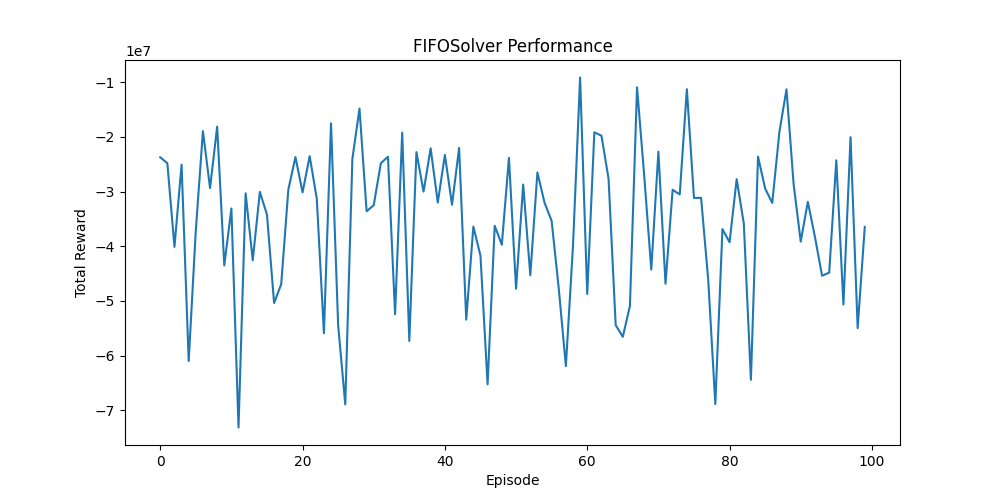
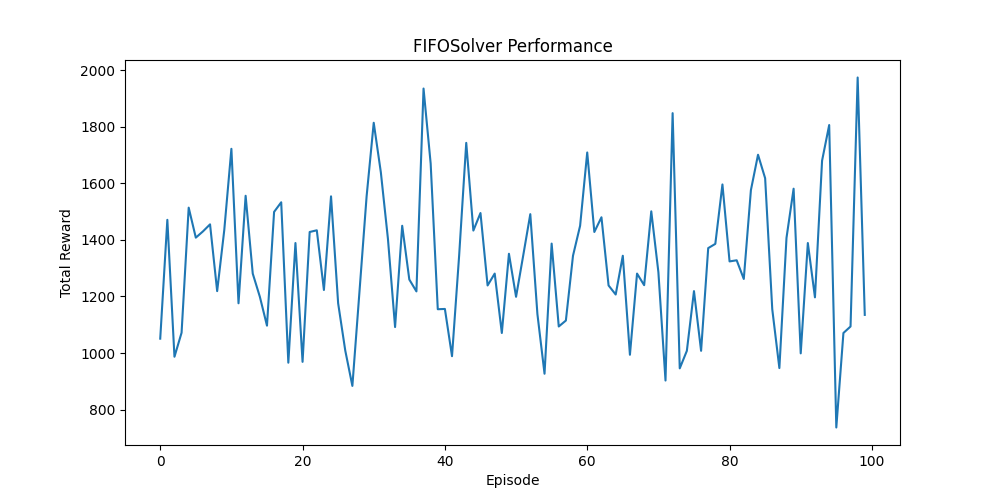
debug

diff --git a/Elevators/envs/simple_elevators.py b/Elevators/envs/simple_elevators.py
@@ -128,7 +128,7 @@ class ElevatorEnv(gym.Env):
         max_passengers_at_a_time: int = 10,
         avg_passengers_at_a_time: float = 5.0,
         total_passengers: int = 10,
-        seed: int | None = None,
+        seed: int | None = 0,
     ) -> None:
         super().__init__()
 
@@ -147,6 +147,7 @@ class ElevatorEnv(gym.Env):
         self.total_passengers: int = total_passengers
         # ---------------- PRNG ------------------------------
         self.rng = np.random.default_rng(seed)
+        self.random_direction_rng = np.random.default_rng(seed)
 
         # ---------------- Gym spaces ------------------------------
         # Observation: (floor, car, channel) – see module docstring
@@ -165,6 +166,7 @@ class ElevatorEnv(gym.Env):
 
     def reset(self, *, seed: int | None = None, options: Optional[dict] = None):
         super().reset(seed=seed)
+        # options[""]
         self._reset_state()
         return self._obs(), self._info()
 
@@ -283,10 +285,22 @@ class ElevatorEnv(gym.Env):
                 is_changed = True
 
         # ---------------- board -------------------------------------------------
-        # Choose the direction the idle car *will* take – random tie‑break.
-        if previous_direction == 0:
-            previous_direction = int(self.rng.choice([-1, 1]))
 
+        if previous_direction == 0:
+            up_waiting = any(
+                p.origin == floor and p.destination > floor
+                for p in self.waiting
+            )
+            down_waiting = any(
+                p.origin == floor and p.destination < floor
+                for p in self.waiting
+            )
+            if up_waiting and down_waiting:
+                previous_direction = self.random_direction_rng.choice([-1, 1])
+            elif up_waiting:
+                previous_direction = 1
+            elif down_waiting:
+                previous_direction = -1
         waiting_same_dir = [
             p
             for p in self.waiting
@@ -306,6 +320,11 @@ class ElevatorEnv(gym.Env):
             # print("Still waiting passengers:", waiting_same_dir)
         dir_col = 0 if previous_direction == 1 else 1
         self.hall[floor, dir_col] = int(still_waiting)
+        # if not is_changed:
+        #     print(
+        #         f"Car {car} at floor {floor} with direction {previous_direction} "
+        #         f"and no passengers to board or alight"
+        #     )
         
         return is_changed
 

diff --git a/Solver/FIFO.py b/Solver/FIFO.py
@@ -88,12 +88,12 @@ class FIFOSolver(BaseSolver):
 if __name__ == "__main__":
     import Elevators
     env = gym.make("Elevators/Elevators-v0", 
-                   num_floors=20, 
-                   num_cars=4, 
-                   avg_passengers_spawning_time=5,
-                   total_passengers=50,
-                   capacity=3)
+                   num_floors=4, 
+                   num_cars=1, 
+                   avg_passengers_spawning_time=20,
+                   total_passengers=1000000,
+                   seed=0)
     solver = FIFOSolver(env)
-    rewards = solver.benchmark(num_episodes=10)
+    rewards = solver.benchmark(num_episodes=100)
     print(f"Average reward: {sum(rewards) / len(rewards)}")
     solver.plot(rewards)

diff --git a/Solver/LOOK.py b/Solver/LOOK.py
@@ -167,11 +167,11 @@ class LOOKSolver:
 
 if __name__ == "__main__":
     env = gym.make("Elevators/Elevators-v0", 
-                   num_floors=20, 
-                   num_cars=4, 
-                   avg_passengers_spawning_time=5,
+                   num_floors=4, 
+                   num_cars=1, 
+                   avg_passengers_spawning_time=20,
                    total_passengers=1000000,
-                   capacity=3)
+                   seed=0)
     solver = LOOKSolver(env)
     rewards = []
     rewards = solver.benchmark(num_episodes=100)
